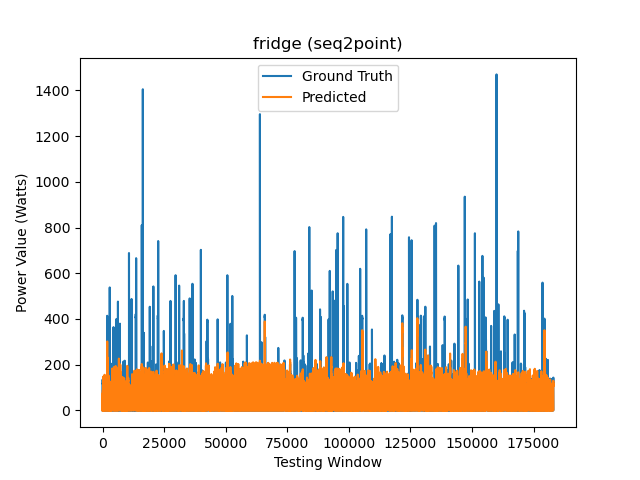
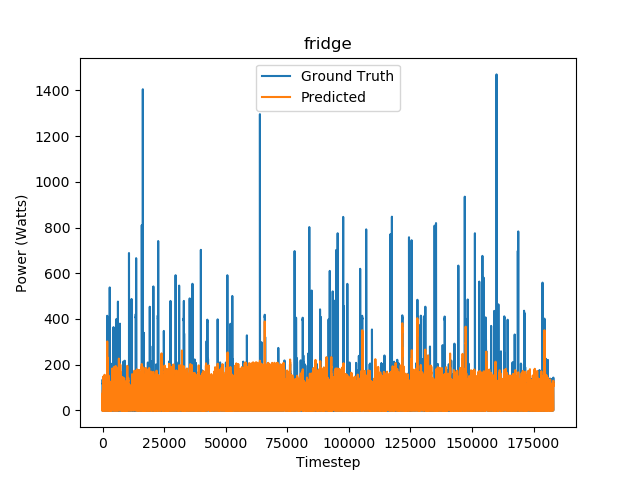
Slightly changed the predictions graphs

Changed region(s): [[0.375, 0.0625, 0.625, 0.2188], [0.0, 0.375, 0.0625, 0.6562], [0.4375, 0.9375, 0.5938, 1.0]]

diff --git a/seq2point_test.py b/seq2point_test.py
@@ -321,10 +321,10 @@ class Tester():
         thresholdTarget = round(np.percentile(test_target, 25), 0)
         print(thresholdPredictions, thresholdTarget)
 
-        #thresholdPredictions = 815 #microwave
+        thresholdPredictions = 815 #microwave
         #thresholdPredictions = 45 #fridge
         #thresholdPredictions = 25 #dishwasher
-        thresholdPredictions = 40 #washing machine
+        #thresholdPredictions = 40 #washing machine
         #comparable_metric_string = "Own defined metrics (after post-processing) - MAE: ", str(MAE/10), " SAE: ", str(SAE/10), " F1: ", str(F1/10)
 
         TP, FN, FP, TN = self.confusionMatrix(testing_history, test_target, thresholdPredictions)
@@ -374,9 +374,9 @@ class Tester():
         #plt.plot(test_agg[self.__window_offset: -self.__window_offset], label="Aggregate")
         plt.plot(test_target, label="Ground Truth")
         plt.plot(testing_history, label="Predicted")
-        plt.title(self.__appliance + " " + self.__network_type + "(" + self.__algorithm + ")")
-        plt.ylabel("Power Value (Watts)")
-        plt.xlabel("Testing Window")
+        plt.title(self.__appliance)
+        plt.ylabel("Power (Watts)")
+        plt.xlabel("Timestep")
         plt.legend()
 
         file_path = "./" + "saved_models/" + self.__appliance + "_" + "_wholeTestPredictions.png"
@@ -387,9 +387,9 @@ class Tester():
         #plt.plot(test_agg[self.__window_offset+2500: -self.__window_offset+1500], label="Aggregate")
         plt.plot(test_target[2970:3080], label="Ground Truth")
         plt.plot(testing_history[2970:3080], label="Predicted")
-        plt.title(self.__appliance + " " + self.__network_type + "(" + self.__algorithm + ")")
-        plt.ylabel("Power Value (Watts)")
-        plt.xlabel("Testing Window")
+        plt.title("Microwave")
+        plt.ylabel("Power (Watts)")
+        plt.xlabel("Timestep")
         plt.legend()
         
         """#fridge
@@ -397,9 +397,9 @@ class Tester():
         #plt.plot(test_agg[self.__window_offset+2500: -self.__window_offset+1500], label="Aggregate")
         plt.plot(test_target[5915:6085], label="Ground Truth")
         plt.plot(testing_history[5915:6085], label="Predicted")
-        plt.title(self.__appliance + " " + self.__network_type + "(" + self.__algorithm + ")")
-        plt.ylabel("Power Value (Watts)")
-        plt.xlabel("Testing Window")
+        plt.title("Fridge")
+        plt.ylabel("Power (Watts)")
+        plt.xlabel("Timestep")
         plt.legend()"""
         
         """#dishwasher
@@ -407,9 +407,9 @@ class Tester():
         #plt.plot(test_agg[self.__window_offset+2500: -self.__window_offset+1500], label="Aggregate")
         plt.plot(test_target[100600:101170], label="Ground Truth")
         plt.plot(testing_history[100600:101170], label="Predicted")
-        plt.title(self.__appliance + " " + self.__network_type + "(" + self.__algorithm + ")")
-        plt.ylabel("Power Value (Watts)")
-        plt.xlabel("Testing Window")
+        plt.title("Dishwasher")
+        plt.ylabel("Power (Watts)")
+        plt.xlabel("Timestep")
         plt.legend()"""
 
         """#washing machine
@@ -417,9 +417,9 @@ class Tester():
         #plt.plot(test_agg[self.__window_offset+2500: -self.__window_offset+1500], label="Aggregate")
         plt.plot(test_target[92440:93250], label="Ground Truth")
         plt.plot(testing_history[92440:93250], label="Predicted")
-        plt.title(self.__appliance + " " + self.__network_type + "(" + self.__algorithm + ")")
-        plt.ylabel("Power Value (Watts)")
-        plt.xlabel("Testing Window")
+        plt.title("Washing Machine")
+        plt.ylabel("Power (Watts)")
+        plt.xlabel("Timestep")
         plt.legend()"""
 
         """plt.figure(1)
